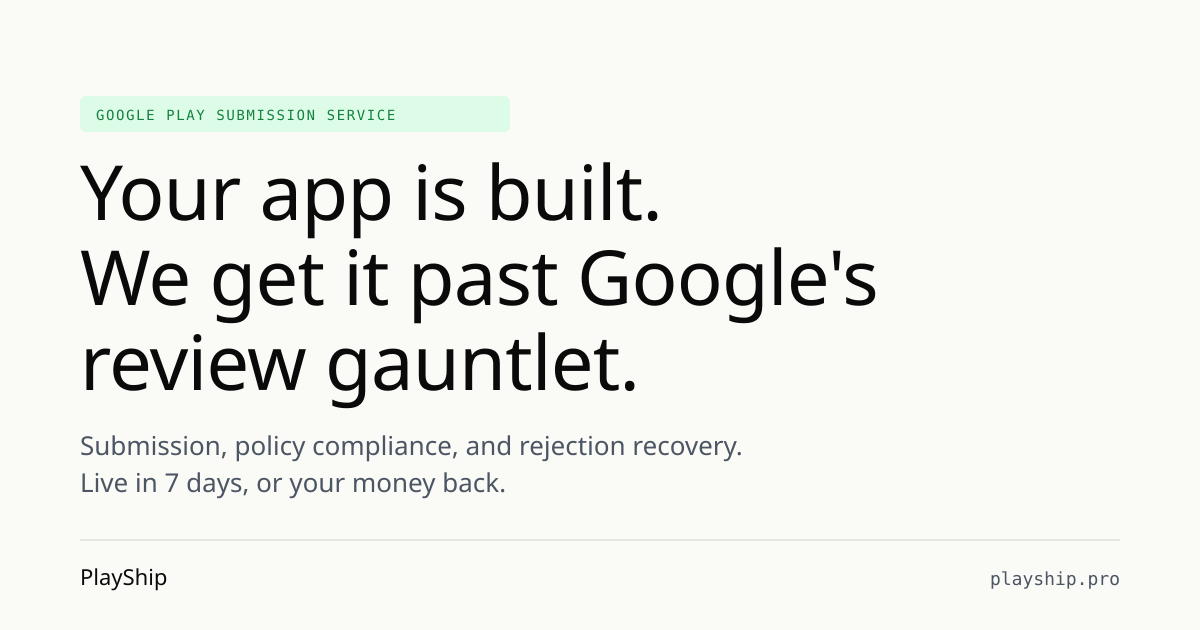
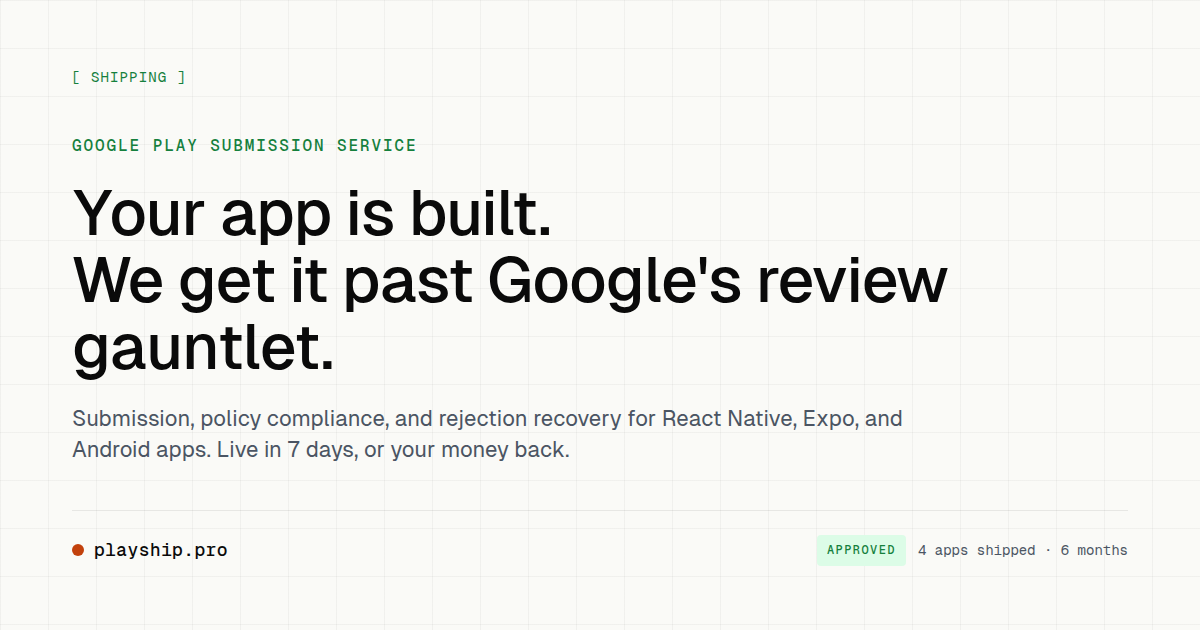
feat(social): designed OG/Twitter/square assets + /og screenshot route
- Adds /og route (noindex, sitemap-excluded, robots-disallowed)
  rendering a 1200x630 social card with brand tokens.
- Generates public/og-image.png (1200x630), twitter-card.png (1200x675),
  social-square.png (1080x1080) via scripts/screenshot_og.py.
- Replaces the prior SVG-rasterized placeholder OG image with a real
  designed card showing the GOOGLE PLAY SUBMISSION SERVICE eyebrow,
  hero headline, playship.pro branding, and an APPROVED badge with
  "4 apps shipped · 6 months".

diff --git a/scripts/screenshot_og.py b/scripts/screenshot_og.py
@@ -1,0 +1,107 @@
+"""Capture social-preview screenshots from the locally-served /og route.
+
+Outputs (written to public/ for direct deploy):
+  og-image.png       1200 x 630   Open Graph default (Facebook, LinkedIn unfurls, Slack)
+  twitter-card.png   1200 x 675   Twitter summary_large_image, 16:9
+  social-square.png  1080 x 1080  Instagram / LinkedIn square
+
+Usage:
+  1) npm run build
+  2) npm run preview -- --port 4321 --host 127.0.0.1  (in another terminal)
+  3) python3 scripts/screenshot_og.py
+
+Optional environment overrides:
+  PLAYSHIP_OG_URL       default http://127.0.0.1:4321/og/
+  PLAYSHIP_OG_OUTDIR    default <repo>/public
+  PLAYWRIGHT_CHROMIUM   path to chromium; falls back to bundled Playwright chromium
+"""
+from __future__ import annotations
+
+import asyncio
+import os
+from pathlib import Path
+from playwright.async_api import async_playwright
+
+REPO_ROOT = Path(__file__).resolve().parents[1]
+OG_URL = os.environ.get("PLAYSHIP_OG_URL", "http://127.0.0.1:4321/og/")
+OUT_DIR = Path(os.environ.get("PLAYSHIP_OG_OUTDIR", REPO_ROOT / "public"))
+CHROME = os.environ.get("PLAYWRIGHT_CHROMIUM")  # None => use bundled chromium
+
+TARGETS = [
+    # (filename, width, height)
+    ("og-image.png", 1200, 630),
+    ("twitter-card.png", 1200, 675),
+    ("social-square.png", 1080, 1080),
+]
+
+
+async def capture(p, filename: str, width: int, height: int) -> None:
+    launch_kwargs = {"args": ["--no-sandbox", "--disable-dev-shm-usage"]}
+    if CHROME:
+        launch_kwargs["executable_path"] = CHROME
+    browser = await p.chromium.launch(**launch_kwargs)
+    try:
+        context = await browser.new_context(
+            viewport={"width": width, "height": height},
+            # device_scale_factor=1 yields exact output dimensions. OG/Twitter
+            # specs target 1200x630; oversized files get downscaled with heavy
+            # compression by sharing services. Keeps us under 200KB.
+            device_scale_factor=1,
+        )
+        page = await context.new_page()
+
+        # Force the rendered .og-frame to the exact target viewport so the
+        # layout reflows for non-default aspect ratios (e.g. the 1:1 square).
+        await page.add_init_script(
+            f"""
+            (() => {{
+              const apply = () => {{
+                const el = document.getElementById('og-frame');
+                if (!el) return;
+                el.style.width = '{width}px';
+                el.style.height = '{height}px';
+              }};
+              if (document.readyState !== 'loading') apply();
+              else document.addEventListener('DOMContentLoaded', apply);
+            }})();
+            """
+        )
+
+        await page.goto(OG_URL, wait_until="networkidle")
+        try:
+            await page.evaluate("document.fonts && document.fonts.ready")
+        except Exception:
+            pass
+        await page.wait_for_timeout(800)
+
+        frame = await page.query_selector("#og-frame")
+        if frame is None:
+            raise RuntimeError("#og-frame element not found at " + OG_URL)
+        box = await frame.bounding_box()
+        if box is None:
+            raise RuntimeError("#og-frame bounding box unavailable")
+
+        out_path = OUT_DIR / filename
+        await page.screenshot(
+            path=str(out_path),
+            clip={
+                "x": box["x"],
+                "y": box["y"],
+                "width": box["width"],
+                "height": box["height"],
+            },
+        )
+        print(f"wrote {out_path} ({width}x{height})")
+    finally:
+        await browser.close()
+
+
+async def main() -> None:
+    OUT_DIR.mkdir(parents=True, exist_ok=True)
+    async with async_playwright() as p:
+        for filename, w, h in TARGETS:
+            await capture(p, filename, w, h)
+
+
+if __name__ == "__main__":
+    asyncio.run(main())

diff --git a/OG_ASSETS.md b/OG_ASSETS.md
@@ -1,0 +1,27 @@
+# Social Preview Assets
+
+Three social-share images live in `public/`:
+
+| File | Dimensions | Use |
+| --- | --- | --- |
+| `og-image.png` | 1200x630 | Open Graph default (Facebook, LinkedIn, Slack unfurls). Referenced from `Layout.astro`. |
+| `twitter-card.png` | 1200x675 | Twitter `summary_large_image` (16:9), for manual posting if needed. |
+| `social-square.png` | 1080x1080 | Instagram / LinkedIn square posts. |
+
+All three are generated by screenshotting the dedicated `/og` route (`src/pages/og.astro`) at the appropriate viewport. `/og` is excluded from the sitemap (see `astro.config.mjs`) and disallowed in `robots.txt`; it exists only as a screenshot source.
+
+## Regenerating after design changes
+
+1. Edit `src/pages/og.astro` if you want the social preview to look different.
+2. Build and serve locally:
+   ```bash
+   npm run build
+   npm run preview -- --port 4321 --host 127.0.0.1
+   ```
+3. In another terminal:
+   ```bash
+   python3 scripts/screenshot_og.py
+   ```
+4. Commit the regenerated PNGs.
+
+The script writes directly to `public/`. All three outputs stay well under the 200KB sharing-service threshold.

diff --git a/README.md b/README.md
@@ -145,7 +145,7 @@ Two verification meta tags in `src/layouts/Layout.astro` ship with placeholder v
 
 After swapping either token, rebuild and redeploy, then click **Verify** in the corresponding console.
 
-The OG image at `public/og-image.png` is rasterised from `public/og-image.svg` via `sharp`. To regenerate after editing the SVG, run sharp against the SVG at 1200x630 and overwrite the PNG.
+Social-share images (`public/og-image.png`, `public/twitter-card.png`, `public/social-square.png`) are generated by screenshotting the dedicated `/og` Astro route (`src/pages/og.astro`) via Playwright. See `OG_ASSETS.md` for the regeneration recipe.
 
 ## Analytics (GoatCounter)
 